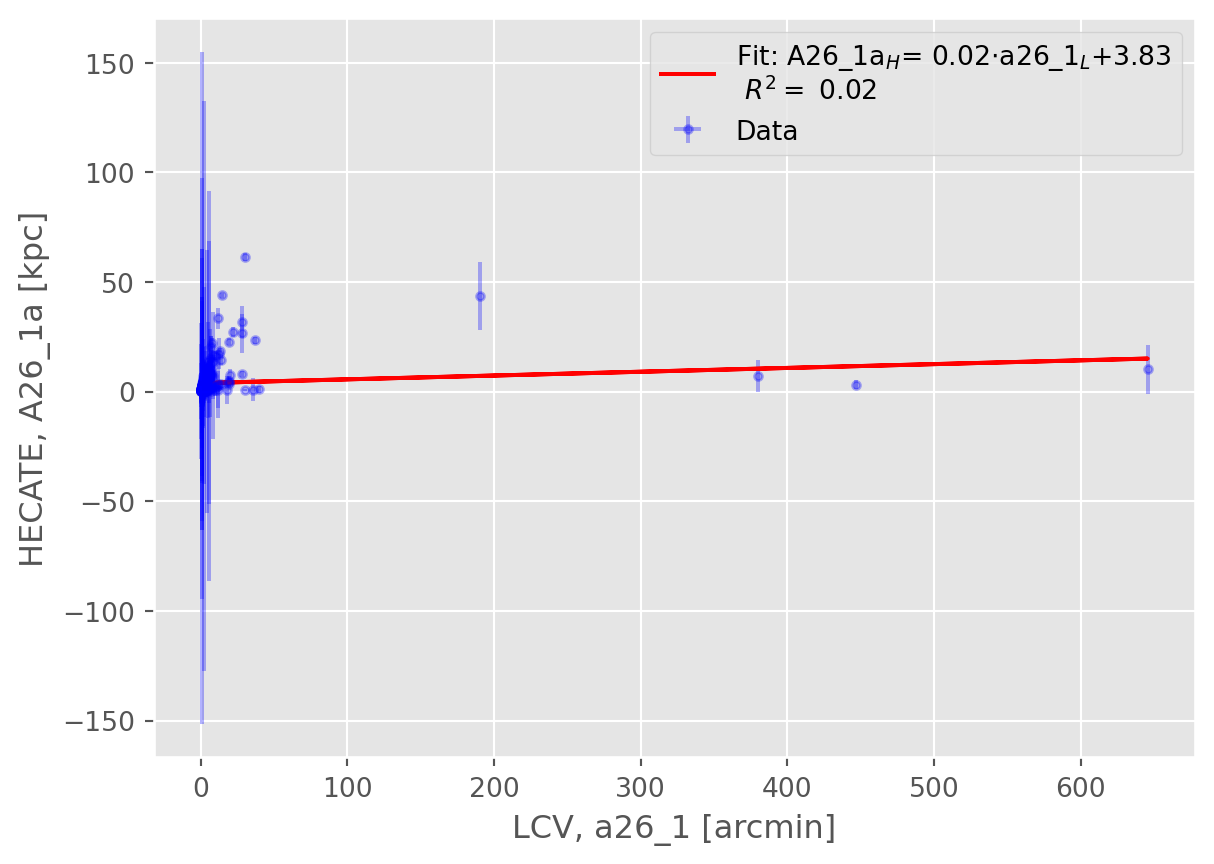
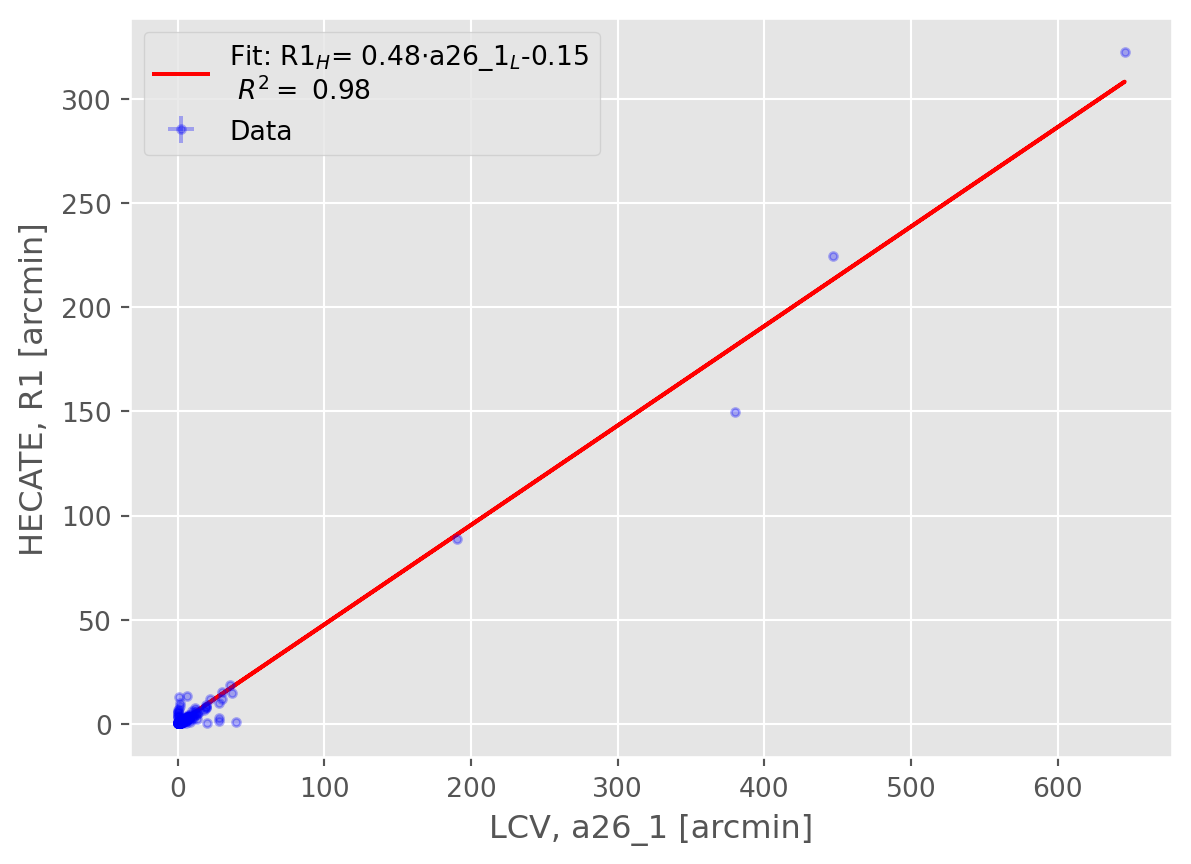
fixed a26

diff --git a/compare/compare.html b/compare/compare.html
@@ -134,6 +134,7 @@ window.Quarto = {
   <li><a href="#scatter-plots-and-r2-calculation" id="toc-scatter-plots-and-r2-calculation" class="nav-link" data-scroll-target="#scatter-plots-and-r2-calculation">Scatter plots and <span class="math inline">\(R^2\)</span> calculation</a></li>
   </ul></li>
   <li><a href="#comparable-data" id="toc-comparable-data" class="nav-link" data-scroll-target="#comparable-data">Comparable data</a></li>
+  <li><a href="#morphology" id="toc-morphology" class="nav-link" data-scroll-target="#morphology">Morphology</a></li>
   </ul>
 </nav>
 </div>
@@ -178,7 +179,7 @@ window.Quarto = {
 <li><u>Slope of the Fitted Line</u>: Should be close to 1 for a 1-1 correlation.<a href="#fn1" class="footnote-ref" id="fnref1" role="doc-noteref"><sup>1</sup></a></li>
 <li><u>Pearson Correlation <span class="math inline">\(\rho\)</span></u>: Measures the strength and direction of the linear relationship between two variables, ranging from -1 to 1. <a href="#fn2" class="footnote-ref" id="fnref2" role="doc-noteref"><sup>2</sup></a></li>
 </ol>
-<div id="70802c8c" class="cell" data-execution_count="2">
+<div id="2467622f" class="cell" data-execution_count="2">
 <div class="sourceCode cell-code" id="cb1"><pre class="sourceCode python code-with-copy"><code class="sourceCode python"><span id="cb1-1"><a href="#cb1-1" aria-hidden="true" tabindex="-1"></a><span class="kw">def</span> compare_data(x, y, unc<span class="op">=</span><span class="va">None</span>, sigma <span class="op">=</span> <span class="va">False</span>):</span>
 <span id="cb1-2"><a href="#cb1-2" aria-hidden="true" tabindex="-1"></a>    <span class="co">"""</span></span>
 <span id="cb1-3"><a href="#cb1-3" aria-hidden="true" tabindex="-1"></a><span class="co">    Performs a linear comparison between two datasets.</span></span>
@@ -246,7 +247,7 @@ window.Quarto = {
 <ol start="4" type="1">
 <li><u>Scatter plots</u>: Scatter plots are essential for visually assessing the relationship between two datasets, identifying correlations, trends, and outliers, and evaluating the fit of linear models.</li>
 </ol>
-<div id="2d9bcf19" class="cell" data-execution_count="3">
+<div id="fc80d163" class="cell" data-execution_count="3">
 <div class="sourceCode cell-code" id="cb2"><pre class="sourceCode python code-with-copy"><code class="sourceCode python"><span id="cb2-1"><a href="#cb2-1" aria-hidden="true" tabindex="-1"></a><span class="kw">def</span> scatter_plot(x, y, xerr <span class="op">=</span> <span class="va">None</span>, yerr <span class="op">=</span> <span class="va">None</span>, sigma <span class="op">=</span> <span class="va">False</span>):</span>
 <span id="cb2-2"><a href="#cb2-2" aria-hidden="true" tabindex="-1"></a>    <span class="co">"""</span></span>
 <span id="cb2-3"><a href="#cb2-3" aria-hidden="true" tabindex="-1"></a><span class="co">    Generates a scatter plot of two datasets with optional error bars, fits a linear model to the data, </span></span>
@@ -350,7 +351,7 @@ window.Quarto = {
 </tr>
 </tbody>
 </table>
-<div id="57a940a9" class="cell" data-execution_count="5">
+<div id="c729e599" class="cell" data-execution_count="5">
 <div class="sourceCode cell-code" id="cb3"><pre class="sourceCode python code-with-copy"><code class="sourceCode python"><span id="cb3-1"><a href="#cb3-1" aria-hidden="true" tabindex="-1"></a>scatter_plot(dt[<span class="st">"Ra_1"</span>], dt[<span class="st">"RA_2"</span>]), scatter_plot(dt[<span class="st">"Dec_1"</span>], dt[<span class="st">"DEC_2"</span>]), scatter_plot(dt[<span class="st">"Dis"</span>], dt[<span class="st">"D"</span>])</span></code><button title="Copy to Clipboard" class="code-copy-button"><i class="bi"></i></button></pre></div>
 <div class="cell-output cell-output-display">
 <div>
@@ -376,7 +377,7 @@ window.Quarto = {
 </div>
 </div>
 <div id="tabset-1-2" class="tab-pane" role="tabpanel" aria-labelledby="tabset-1-2-tab">
-<div id="42277a98" class="cell" data-execution_count="6">
+<div id="1502a303" class="cell" data-execution_count="6">
 <div class="sourceCode cell-code" id="cb4"><pre class="sourceCode python code-with-copy"><code class="sourceCode python"><span id="cb4-1"><a href="#cb4-1" aria-hidden="true" tabindex="-1"></a>rvel_corr <span class="op">=</span> <span class="bu">round</span>(compare_data(dt[<span class="st">"RVel"</span>],dt[<span class="st">"V"</span>])[<span class="dv">3</span>],<span class="dv">3</span>)</span>
 <span id="cb4-2"><a href="#cb4-2" aria-hidden="true" tabindex="-1"></a>rvel_corr_v <span class="op">=</span> <span class="bu">round</span>(compare_data(dt[<span class="st">"RVel"</span>],dt[<span class="st">"V_VIR"</span>])[<span class="dv">3</span>],<span class="dv">3</span>)</span>
 <span id="cb4-3"><a href="#cb4-3" aria-hidden="true" tabindex="-1"></a>vlg_corr <span class="op">=</span> <span class="bu">round</span>(compare_data(dt[<span class="st">"VLG"</span>],dt[<span class="st">"V"</span>])[<span class="dv">3</span>],<span class="dv">3</span>)</span>
@@ -420,7 +421,7 @@ window.Quarto = {
 </tr>
 </tbody>
 </table>
-<div id="6b9eac47" class="cell" data-execution_count="7">
+<div id="5b305125" class="cell" data-execution_count="7">
 <div class="sourceCode cell-code" id="cb5"><pre class="sourceCode python code-with-copy"><code class="sourceCode python"><span id="cb5-1"><a href="#cb5-1" aria-hidden="true" tabindex="-1"></a>scatter_plot(dt[<span class="st">"RVel"</span>], dt[<span class="st">"V"</span>], yerr <span class="op">=</span> dt[<span class="st">"E_V"</span>])</span></code><button title="Copy to Clipboard" class="code-copy-button"><i class="bi"></i></button></pre></div>
 <div class="cell-output cell-output-display">
 <div>
@@ -436,7 +437,7 @@ window.Quarto = {
 <colgroup>
 <col style="width: 24%">
 <col style="width: 24%">
-<col style="width: 27%">
+<col style="width: 26%">
 <col style="width: 24%">
 </colgroup>
 <thead>
@@ -462,17 +463,21 @@ window.Quarto = {
 </tr>
 <tr class="odd">
 <td style="text-align: center;">a26_1 (Major)</td>
-<td style="text-align: center;">A26_1a (Semi-major axis)</td>
+<td style="text-align: center;">R1 (Semi-major axis)</td>
 <td style="text-align: center;">angular diameter (arcmin)</td>
-<td style="text-align: center;">0</td>
+<td style="text-align: center;">0.992</td>
 </tr>
 </tbody>
 </table>
 <p>As we can see we don’t have any significant correlation between the Types of galaxies</p>
-<div id="88b298e7" class="cell" data-execution_count="9">
+<p><strong>For the A26: In the LCV Catalog it is measured in deg, and in Hecate it is mesaured in kpc</strong></p>
+<p>We need to convert the <span class="math inline">\(a26_{HEC}\)</span> from kpc to deg using the formula <span class="math display">\[\delta =  2\arctan \left(\frac{d}{2D}\right)\]</span></p>
+<p><img src="/Angular_diameter_formula.svg.png" class="img-fluid"></p>
+<p>in which <span class="math inline">\(\delta\)</span> is the angular diameter in degrees, and d is the actual diameter of the object, and D is the distance to the object.</p>
+<div id="2d980611" class="cell" data-execution_count="9">
 <div class="sourceCode cell-code" id="cb6"><pre class="sourceCode python code-with-copy"><code class="sourceCode python"><span id="cb6-1"><a href="#cb6-1" aria-hidden="true" tabindex="-1"></a>scatter_plot(dt[<span class="st">"TType"</span>], dt[<span class="st">"T"</span>], yerr <span class="op">=</span> dt[<span class="st">"E_T"</span>])</span>
-<span id="cb6-2"><a href="#cb6-2" aria-hidden="true" tabindex="-1"></a>scatter_plot(dt[<span class="st">"inc"</span>], dt[<span class="st">"INCL"</span>], yerr <span class="op">=</span> dt[<span class="st">"E_V"</span>], sigma <span class="op">=</span><span class="va">True</span>)</span>
-<span id="cb6-3"><a href="#cb6-3" aria-hidden="true" tabindex="-1"></a>scatter_plot(dt[<span class="st">"a26_1"</span>], dt[<span class="st">"A26_1a"</span>], yerr <span class="op">=</span> dt[<span class="st">"E_V"</span>])</span></code><button title="Copy to Clipboard" class="code-copy-button"><i class="bi"></i></button></pre></div>
+<span id="cb6-2"><a href="#cb6-2" aria-hidden="true" tabindex="-1"></a>scatter_plot(dt[<span class="st">"inc"</span>], dt[<span class="st">"INCL"</span>], sigma <span class="op">=</span><span class="va">True</span>)</span>
+<span id="cb6-3"><a href="#cb6-3" aria-hidden="true" tabindex="-1"></a>scatter_plot(dt[<span class="st">"a26_1"</span>], dt[<span class="st">"R1"</span>])</span></code><button title="Copy to Clipboard" class="code-copy-button"><i class="bi"></i></button></pre></div>
 <div class="cell-output cell-output-display">
 <div>
 <figure class="figure">
@@ -483,19 +488,18 @@ window.Quarto = {
 <div class="cell-output cell-output-display">
 <div>
 <figure class="figure">
-<p><img src="compare_files/figure-html/cell-10-output-2.png" width="607" height="432" class="figure-img"></p>
+<p><img src="compare_files/figure-html/cell-10-output-2.png" width="587" height="432" class="figure-img"></p>
 </figure>
 </div>
 </div>
 <div class="cell-output cell-output-display">
 <div>
 <figure class="figure">
-<p><img src="compare_files/figure-html/cell-10-output-3.png" width="607" height="432" class="figure-img"></p>
+<p><img src="compare_files/figure-html/cell-10-output-3.png" width="596" height="432" class="figure-img"></p>
 </figure>
 </div>
 </div>
 </div>
-<p><strong>For the A26: In the LCV Catalog it is measured in deg, and in Hecate it is mesaured in kpc</strong></p>
 </div>
 <div id="tabset-1-4" class="tab-pane" role="tabpanel" aria-labelledby="tabset-1-4-tab">
 <table class="table">
@@ -516,7 +520,7 @@ window.Quarto = {
 </tr>
 </tbody>
 </table>
-<div id="5d156e96" class="cell" data-execution_count="11">
+<div id="e1c5eb95" class="cell" data-execution_count="11">
 <div class="sourceCode cell-code" id="cb7"><pre class="sourceCode python code-with-copy"><code class="sourceCode python"><span id="cb7-1"><a href="#cb7-1" aria-hidden="true" tabindex="-1"></a>scatter_plot(dt[<span class="st">"logKLum"</span>], dt[<span class="st">"logL_K"</span>])</span></code><button title="Copy to Clipboard" class="code-copy-button"><i class="bi"></i></button></pre></div>
 <div class="cell-output cell-output-display">
 <div>
@@ -530,10 +534,10 @@ window.Quarto = {
 <div id="tabset-1-5" class="tab-pane" role="tabpanel" aria-labelledby="tabset-1-5-tab">
 <table class="table">
 <colgroup>
-<col style="width: 22%">
-<col style="width: 22%">
-<col style="width: 22%">
-<col style="width: 33%">
+<col style="width: 24%">
+<col style="width: 24%">
+<col style="width: 24%">
+<col style="width: 26%">
 </colgroup>
 <thead>
 <tr class="header">
@@ -558,7 +562,7 @@ window.Quarto = {
 </tr>
 </tbody>
 </table>
-<div id="44d97fdf" class="cell" data-execution_count="13">
+<div id="2ad5c078" class="cell" data-execution_count="13">
 <div class="sourceCode cell-code" id="cb8"><pre class="sourceCode python code-with-copy"><code class="sourceCode python"><span id="cb8-1"><a href="#cb8-1" aria-hidden="true" tabindex="-1"></a>scatter_plot(dt[<span class="st">"mag_B"</span>], dt[<span class="st">"BT"</span>], yerr <span class="op">=</span> dt[<span class="st">"E_BT"</span>], sigma <span class="op">=</span> <span class="va">True</span>)</span>
 <span id="cb8-2"><a href="#cb8-2" aria-hidden="true" tabindex="-1"></a>scatter_plot(dt[<span class="st">"Kmag"</span>], dt[<span class="st">"K"</span>], yerr <span class="op">=</span> dt[<span class="st">"E_K"</span>])</span></code><button title="Copy to Clipboard" class="code-copy-button"><i class="bi"></i></button></pre></div>
 <div class="cell-output cell-output-display">
@@ -580,10 +584,10 @@ window.Quarto = {
 <div id="tabset-1-6" class="tab-pane" role="tabpanel" aria-labelledby="tabset-1-6-tab">
 <table class="table">
 <colgroup>
-<col style="width: 21%">
-<col style="width: 21%">
-<col style="width: 35%">
-<col style="width: 21%">
+<col style="width: 24%">
+<col style="width: 24%">
+<col style="width: 27%">
+<col style="width: 24%">
 </colgroup>
 <thead>
 <tr class="header">
@@ -608,7 +612,7 @@ window.Quarto = {
 </tr>
 </tbody>
 </table>
-<div id="5ba51071" class="cell" data-execution_count="15">
+<div id="babe9e39" class="cell" data-execution_count="15">
 <div class="sourceCode cell-code" id="cb9"><pre class="sourceCode python code-with-copy"><code class="sourceCode python"><span id="cb9-1"><a href="#cb9-1" aria-hidden="true" tabindex="-1"></a>scatter_plot(dt[<span class="st">"AB"</span>], dt[<span class="st">"AG"</span>])<span class="co">#, scatter_plot(dt["AB_int"], dt["AI"])</span></span></code><button title="Copy to Clipboard" class="code-copy-button"><i class="bi"></i></button></pre></div>
 <div class="cell-output cell-output-display">
 <div>
@@ -622,10 +626,10 @@ window.Quarto = {
 <div id="tabset-1-7" class="tab-pane" role="tabpanel" aria-labelledby="tabset-1-7-tab">
 <table class="table">
 <colgroup>
-<col style="width: 21%">
-<col style="width: 21%">
-<col style="width: 35%">
-<col style="width: 21%">
+<col style="width: 24%">
+<col style="width: 24%">
+<col style="width: 27%">
+<col style="width: 24%">
 </colgroup>
 <thead>
 <tr class="header">
@@ -692,7 +696,7 @@ window.Quarto = {
 </tr>
 </tbody>
 </table>
-<div id="41b253d8" class="cell" data-execution_count="17">
+<div id="c2e0b763" class="cell" data-execution_count="17">
 <div class="cell-output cell-output-display">
 <div>
 <figure class="figure">
@@ -713,10 +717,10 @@ window.Quarto = {
 <div id="tabset-1-8" class="tab-pane" role="tabpanel" aria-labelledby="tabset-1-8-tab">
 <table class="table">
 <colgroup>
-<col style="width: 19%">
-<col style="width: 19%">
-<col style="width: 30%">
-<col style="width: 30%">
+<col style="width: 25%">
+<col style="width: 25%">
+<col style="width: 25%">
+<col style="width: 25%">
 </colgroup>
 <thead>
 <tr class="header">
@@ -759,7 +763,7 @@ window.Quarto = {
 </tr>
 </tbody>
 </table>
-<div id="ddce646c" class="cell" data-execution_count="19">
+<div id="f5f8ce0e" class="cell" data-execution_count="19">
 <div class="cell-output cell-output-display">
 <div>
 <figure class="figure">
@@ -778,11 +782,14 @@ window.Quarto = {
 </div>
 </div>
 </div>
+</section>
+<section id="morphology" class="level1 unnumbered">
+
 
 </section>
 
 
-<div id="quarto-appendix" class="default"><section class="quarto-appendix-contents" role="doc-bibliography" id="quarto-bibliography"><h2 class="anchored quarto-appendix-heading">References</h2><div id="refs" class="references csl-bib-body hanging-indent" data-entry-spacing="0" role="list">
+<div id="quarto-appendix" class="default"><section class="quarto-appendix-contents" role="doc-bibliography" id="quarto-bibliography"><h2 class="anchored quarto-appendix-heading">Morphology</h2><div id="refs" class="references csl-bib-body hanging-indent" data-entry-spacing="0" role="list">
 <div id="ref-karachentsevSTARFORMATIONPROPERTIES2013a" class="csl-entry" role="listitem">
 Karachentsev, Igor D., and Elena I. Kaisina. 2013. <span>“<span>STAR FORMATION PROPERTIES IN THE LOCAL VOLUME GALAXIES VIA Hα AND FAR-ULTRAVIOLET FLUXES</span>.”</span> <em>AJ</em> 146 (3): 46. <a href="https://doi.org/10.1088/0004-6256/146/3/46">https://doi.org/10.1088/0004-6256/146/3/46</a>.
 </div>
